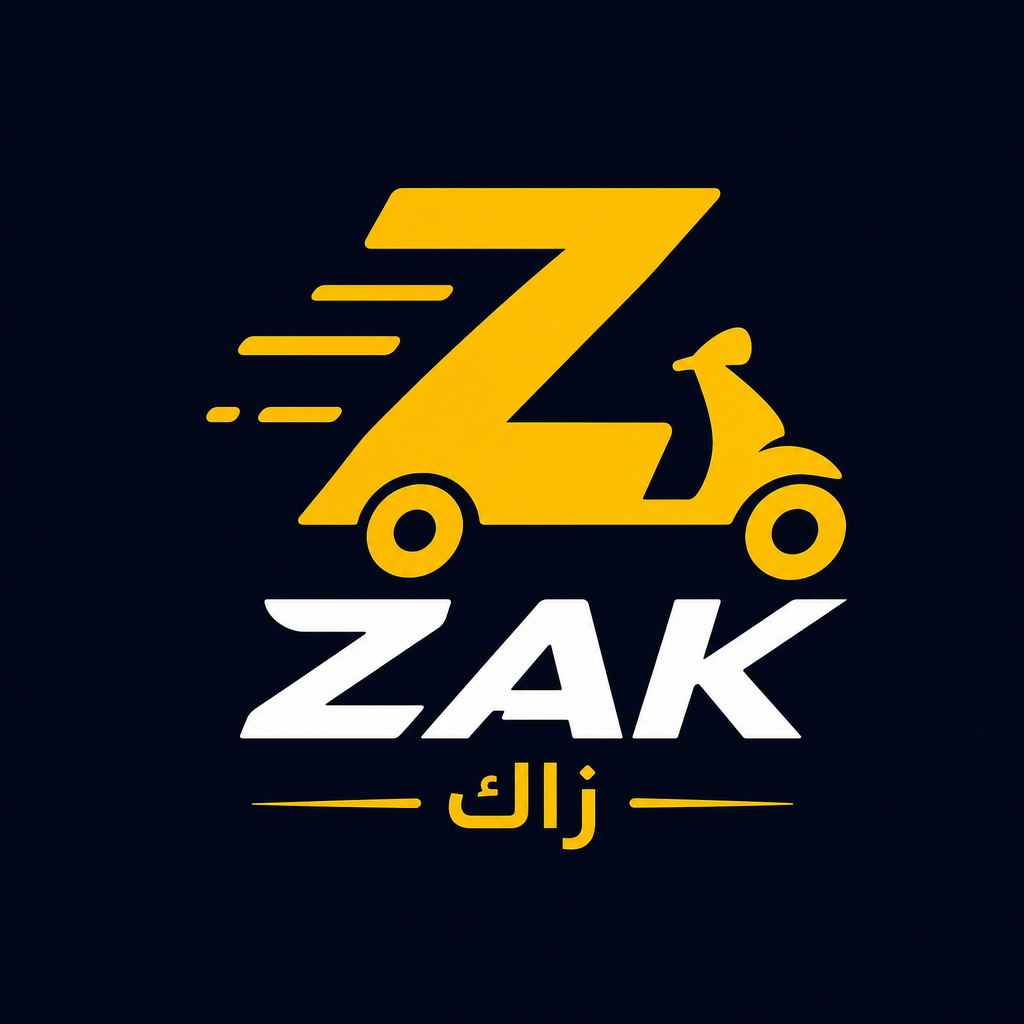
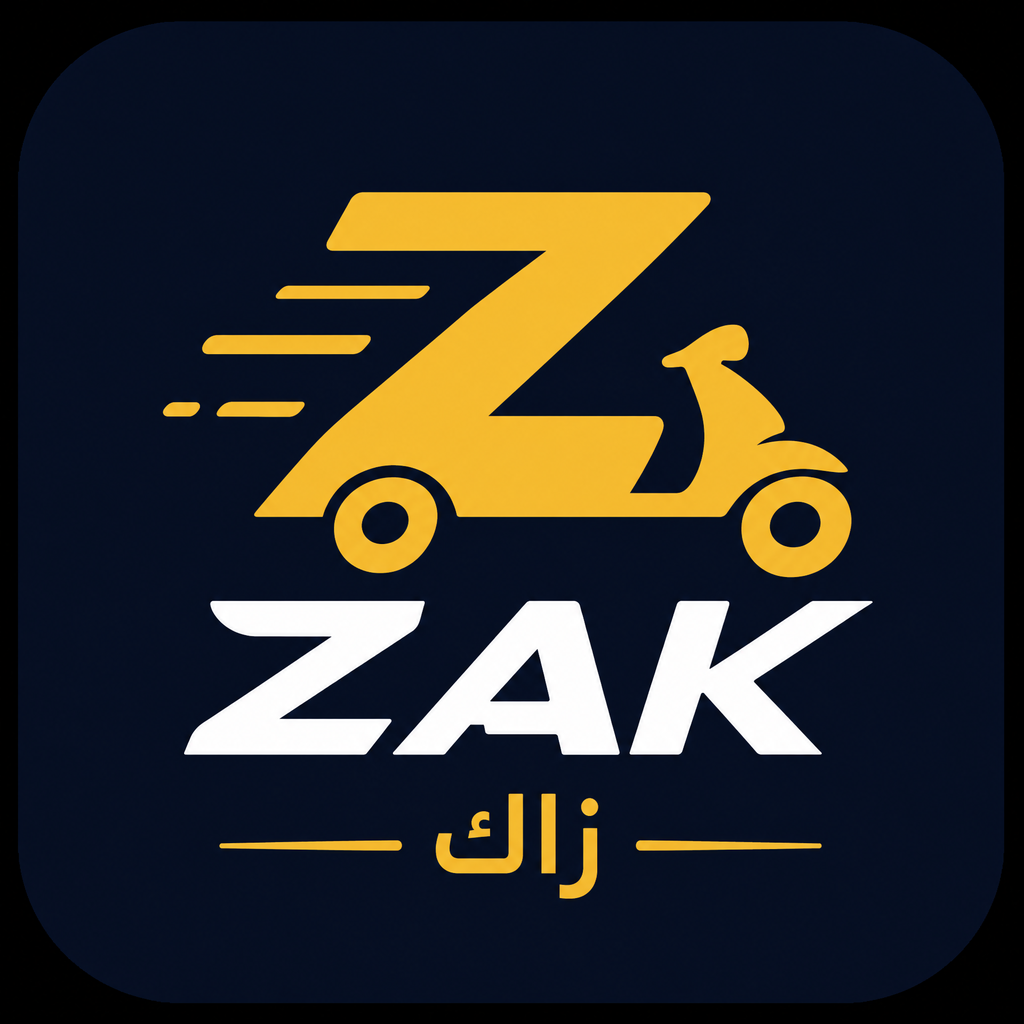
Checkpoint: تحديث هوية ZAK | زاك محفوظ مع الأيقونة المصغرة من الشعار المرجعي، العبارة «زاك — لمّا تطلب، زاك يوصل😉»، ونسخ الأيقونة المطلوبة للتطبيق بحجم مناسب. فحص TypeScript ناجح.

diff --git a/app/auth.tsx b/app/auth.tsx
@@ -10,6 +10,6 @@ export default function AuthScreen() {
   const [role, setRole] = useState<"customer" | "driver">("customer");
   const [mode, setMode] = useState<"login" | "signup">("signup");
   const [showPassword, setShowPassword] = useState(false);
-  return <ScreenContainer edges={["top", "bottom", "left", "right"]} className="px-5" containerClassName="bg-background"><View style={styles.topBar}><Pressable onPress={() => router.back()} style={styles.back}><IconSymbol name="chevron.right" size={22} color={colors.foreground} /></Pressable><Text style={[styles.help, { color: colors.muted }]}>مساعدة</Text></View><View style={styles.brand}><View style={styles.logoMark}><Text style={styles.logoZ}>Z</Text><IconSymbol name="bicycle" size={20} color="#FFC400" /></View><Text style={[styles.brandName, { color: colors.foreground }]}>ZAK <Text style={{ color: "#FFC400" }}>| زاك</Text></Text><Text style={[styles.tagline, { color: colors.muted }]}>توصيل سريع.. أينما كنت</Text></View><View style={styles.heading}><Text style={[styles.title, { color: colors.foreground }]}>{mode === "login" ? "مرحباً بعودتك" : "أنشئ حسابك"}</Text><Text style={[styles.subtitle, { color: colors.muted }]}>سجّل دخولك أو أنشئ حساباً جديداً للبدء</Text></View><View style={[styles.roleSwitch, { backgroundColor: colors.surface, borderColor: colors.border }]}><Pressable onPress={() => setRole("driver")} style={[styles.role, role === "driver" && { backgroundColor: colors.primary }]}><IconSymbol name="bicycle" size={19} color={role === "driver" ? "#FFFFFF" : colors.muted} /><Text style={[styles.roleText, { color: role === "driver" ? "#FFFFFF" : colors.muted }]}>أنا سائق</Text></Pressable><Pressable onPress={() => setRole("customer")} style={[styles.role, role === "customer" && { backgroundColor: colors.primary }]}><IconSymbol name="person.fill" size={19} color={role === "customer" ? "#FFFFFF" : colors.muted} /><Text style={[styles.roleText, { color: role === "customer" ? "#FFFFFF" : colors.muted }]}>أنا زبون</Text></Pressable></View>{mode === "signup" && <View style={[styles.inputWrap, { backgroundColor: colors.surface, borderColor: colors.border }]}><IconSymbol name="person.fill" size={19} color={colors.muted} /><TextInput placeholder="الاسم الكامل" placeholderTextColor={colors.muted} style={[styles.input, { color: colors.foreground }]} textAlign="right" /></View>}<View style={[styles.inputWrap, { backgroundColor: colors.surface, borderColor: colors.border }]}><IconSymbol name="phone" size={19} color={colors.muted} /><TextInput placeholder="رقم الهاتف" placeholderTextColor={colors.muted} style={[styles.input, { color: colors.foreground }]} keyboardType="phone-pad" textAlign="right" /></View><View style={[styles.inputWrap, { backgroundColor: colors.surface, borderColor: colors.border }]}><IconSymbol name="lock.fill" size={19} color={colors.muted} /><TextInput placeholder="كلمة المرور" placeholderTextColor={colors.muted} style={[styles.input, { color: colors.foreground }]} secureTextEntry={!showPassword} textAlign="right" /><Pressable onPress={() => setShowPassword(!showPassword)}><IconSymbol name={showPassword ? "eye.slash.fill" : "eye.fill"} size={19} color={colors.muted} /></Pressable></View>{mode === "signup" && <Pressable onPress={() => router.push("/location")} style={[styles.locationHint, { backgroundColor: "#FFF7E0", borderColor: "#F8D56A" }]}><IconSymbol name="location.fill" size={20} color="#D99A00" /><View style={styles.locationCopy}><Text style={[styles.locationTitle, { color: colors.foreground }]}>حدد عنوان التوصيل</Text><Text style={[styles.locationText, { color: colors.muted }]}>اختَر موقعك بدقة على الخريطة</Text></View><IconSymbol name="chevron.left" size={18} color="#D99A00" /></Pressable>}<Pressable onPress={() => mode === "signup" ? router.push("/location") : router.replace("/(tabs)")} style={styles.primaryButton}><Text style={styles.primaryText}>{mode === "login" ? "تسجيل الدخول" : role === "driver" ? "التسجيل كسائق" : "إنشاء حساب"}</Text><IconSymbol name="arrow.left" size={18} color="#111827" /></Pressable><View style={styles.switchRow}><Text style={[styles.switchText, { color: colors.muted }]}>{mode === "login" ? "ليس لديك حساب؟" : "لديك حساب مسبقاً؟"}</Text><Pressable onPress={() => setMode(mode === "login" ? "signup" : "login")}><Text style={[styles.switchAction, { color: colors.primary }]}>{mode === "login" ? "إنشاء حساب" : "تسجيل الدخول"}</Text></Pressable></View></ScreenContainer>;
+  return <ScreenContainer edges={["top", "bottom", "left", "right"]} className="px-5" containerClassName="bg-background"><View style={styles.topBar}><Pressable onPress={() => router.back()} style={styles.back}><IconSymbol name="chevron.right" size={22} color={colors.foreground} /></Pressable><Text style={[styles.help, { color: colors.muted }]}>مساعدة</Text></View><View style={styles.brand}><View style={styles.logoMark}><Text style={styles.logoZ}>Z</Text><IconSymbol name="bicycle" size={20} color="#FFC400" /></View><Text style={[styles.brandName, { color: colors.foreground }]}>ZAK <Text style={{ color: "#FFC400" }}>| زاك</Text></Text><Text style={[styles.tagline, { color: colors.muted }]}>لمّا تطلب، زاك يوصل😉</Text></View><View style={styles.heading}><Text style={[styles.title, { color: colors.foreground }]}>{mode === "login" ? "مرحباً بعودتك" : "أنشئ حسابك"}</Text><Text style={[styles.subtitle, { color: colors.muted }]}>سجّل دخولك أو أنشئ حساباً جديداً للبدء</Text></View><View style={[styles.roleSwitch, { backgroundColor: colors.surface, borderColor: colors.border }]}><Pressable onPress={() => setRole("driver")} style={[styles.role, role === "driver" && { backgroundColor: colors.primary }]}><IconSymbol name="bicycle" size={19} color={role === "driver" ? "#FFFFFF" : colors.muted} /><Text style={[styles.roleText, { color: role === "driver" ? "#FFFFFF" : colors.muted }]}>أنا سائق</Text></Pressable><Pressable onPress={() => setRole("customer")} style={[styles.role, role === "customer" && { backgroundColor: colors.primary }]}><IconSymbol name="person.fill" size={19} color={role === "customer" ? "#FFFFFF" : colors.muted} /><Text style={[styles.roleText, { color: role === "customer" ? "#FFFFFF" : colors.muted }]}>أنا زبون</Text></Pressable></View>{mode === "signup" && <View style={[styles.inputWrap, { backgroundColor: colors.surface, borderColor: colors.border }]}><IconSymbol name="person.fill" size={19} color={colors.muted} /><TextInput placeholder="الاسم الكامل" placeholderTextColor={colors.muted} style={[styles.input, { color: colors.foreground }]} textAlign="right" /></View>}<View style={[styles.inputWrap, { backgroundColor: colors.surface, borderColor: colors.border }]}><IconSymbol name="phone" size={19} color={colors.muted} /><TextInput placeholder="رقم الهاتف" placeholderTextColor={colors.muted} style={[styles.input, { color: colors.foreground }]} keyboardType="phone-pad" textAlign="right" /></View><View style={[styles.inputWrap, { backgroundColor: colors.surface, borderColor: colors.border }]}><IconSymbol name="lock.fill" size={19} color={colors.muted} /><TextInput placeholder="كلمة المرور" placeholderTextColor={colors.muted} style={[styles.input, { color: colors.foreground }]} secureTextEntry={!showPassword} textAlign="right" /><Pressable onPress={() => setShowPassword(!showPassword)}><IconSymbol name={showPassword ? "eye.slash.fill" : "eye.fill"} size={19} color={colors.muted} /></Pressable></View>{mode === "signup" && <Pressable onPress={() => router.push("/location")} style={[styles.locationHint, { backgroundColor: "#FFF7E0", borderColor: "#F8D56A" }]}><IconSymbol name="location.fill" size={20} color="#D99A00" /><View style={styles.locationCopy}><Text style={[styles.locationTitle, { color: colors.foreground }]}>حدد عنوان التوصيل</Text><Text style={[styles.locationText, { color: colors.muted }]}>اختَر موقعك بدقة على الخريطة</Text></View><IconSymbol name="chevron.left" size={18} color="#D99A00" /></Pressable>}<Pressable onPress={() => mode === "signup" ? router.push("/location") : router.replace("/(tabs)")} style={styles.primaryButton}><Text style={styles.primaryText}>{mode === "login" ? "تسجيل الدخول" : role === "driver" ? "التسجيل كسائق" : "إنشاء حساب"}</Text><IconSymbol name="arrow.left" size={18} color="#111827" /></Pressable><View style={styles.switchRow}><Text style={[styles.switchText, { color: colors.muted }]}>{mode === "login" ? "ليس لديك حساب؟" : "لديك حساب مسبقاً؟"}</Text><Pressable onPress={() => setMode(mode === "login" ? "signup" : "login")}><Text style={[styles.switchAction, { color: colors.primary }]}>{mode === "login" ? "إنشاء حساب" : "تسجيل الدخول"}</Text></Pressable></View></ScreenContainer>;
 }
 const styles = StyleSheet.create({ topBar: { flexDirection: "row-reverse", justifyContent: "space-between", alignItems: "center", paddingTop: 8 }, back: { width: 42, height: 42, borderRadius: 14, backgroundColor: "#FFFFFF", alignItems: "center", justifyContent: "center" }, help: { fontSize: 13, fontWeight: "700" }, brand: { alignItems: "center", marginTop: 22, marginBottom: 24 }, logoMark: { width: 72, height: 72, borderRadius: 24, backgroundColor: "#071126", alignItems: "center", justifyContent: "center", flexDirection: "row", gap: 0 }, logoZ: { color: "#FFC400", fontSize: 43, fontWeight: "900", fontStyle: "italic" }, brandName: { fontSize: 24, fontWeight: "900", marginTop: 8 }, tagline: { fontSize: 12, marginTop: 4 }, heading: { alignItems: "flex-end", marginBottom: 17 }, title: { fontSize: 26, fontWeight: "900" }, subtitle: { fontSize: 12, marginTop: 6 }, roleSwitch: { borderWidth: 1, borderRadius: 15, padding: 4, flexDirection: "row-reverse", marginBottom: 13 }, role: { flex: 1, height: 43, borderRadius: 11, flexDirection: "row-reverse", alignItems: "center", justifyContent: "center", gap: 6 }, roleText: { fontSize: 13, fontWeight: "800" }, inputWrap: { height: 54, borderWidth: 1, borderRadius: 15, paddingHorizontal: 15, flexDirection: "row-reverse", alignItems: "center", gap: 10, marginBottom: 10 }, input: { flex: 1, fontSize: 14 }, locationHint: { borderWidth: 1, borderRadius: 15, minHeight: 64, padding: 12, flexDirection: "row-reverse", alignItems: "center", gap: 10, marginTop: 1, marginBottom: 13 }, locationCopy: { flex: 1, alignItems: "flex-end" }, locationTitle: { fontSize: 13, fontWeight: "800", marginBottom: 3 }, locationText: { fontSize: 11 }, primaryButton: { height: 54, backgroundColor: "#FFC400", borderRadius: 16, flexDirection: "row-reverse", alignItems: "center", justifyContent: "center", gap: 9, marginTop: 2 }, primaryText: { color: "#111827", fontSize: 15, fontWeight: "900" }, switchRow: { flexDirection: "row-reverse", justifyContent: "center", gap: 5, marginTop: 19 }, switchText: { fontSize: 12 }, switchAction: { fontSize: 12, fontWeight: "900" } });

diff --git a/design.md b/design.md
@@ -6,7 +6,7 @@
 
 ## هوية التطبيق
 
-الاسم الرسمي: **ZAK | زاك**. الهوية البصرية المعتمدة هي حرف Z ذهبي مدمج مع سكوتر توصيل سريع، على خلفية كحلية، مع كلمة ZAK باللون الأبيض و«زاك» بالذهبي. الشعار اللفظي: **توصيل سريع.. أينما كنت**.
+الاسم الرسمي: **ZAK | زاك**. الهوية البصرية المعتمدة هي حرف Z ذهبي مدمج مع سكوتر توصيل سريع، على خلفية كحلية، مع كلمة ZAK باللون الأبيض و«زاك» بالذهبي. الشعار اللفظي: **زاك — لمّا تطلب، زاك يوصل😉**. وتُستخدم النسخة المصغّرة من الشعار، التي تجمع حرف Z والسكوتر واسم ZAK | زاك، كأيقونة التطبيق الخارجية.
 
 | العنصر | القيمة | الاستخدام |
 |---|---|---|

diff --git a/todo.md b/todo.md
@@ -25,3 +25,4 @@
 - [x] شاشة تفاصيل المتجر وقائمة المنتجات
 - [x] إضافة المنتجات وتعديل الكميات داخل السلة
 - [x] صفحة مراجعة وتأكيد الطلب النهائي
+- [x] تحديث العبارة إلى «زاك — لمّا تطلب، زاك يوصل😉» وإنشاء شعار مصغّر لأيقونة التطبيق
